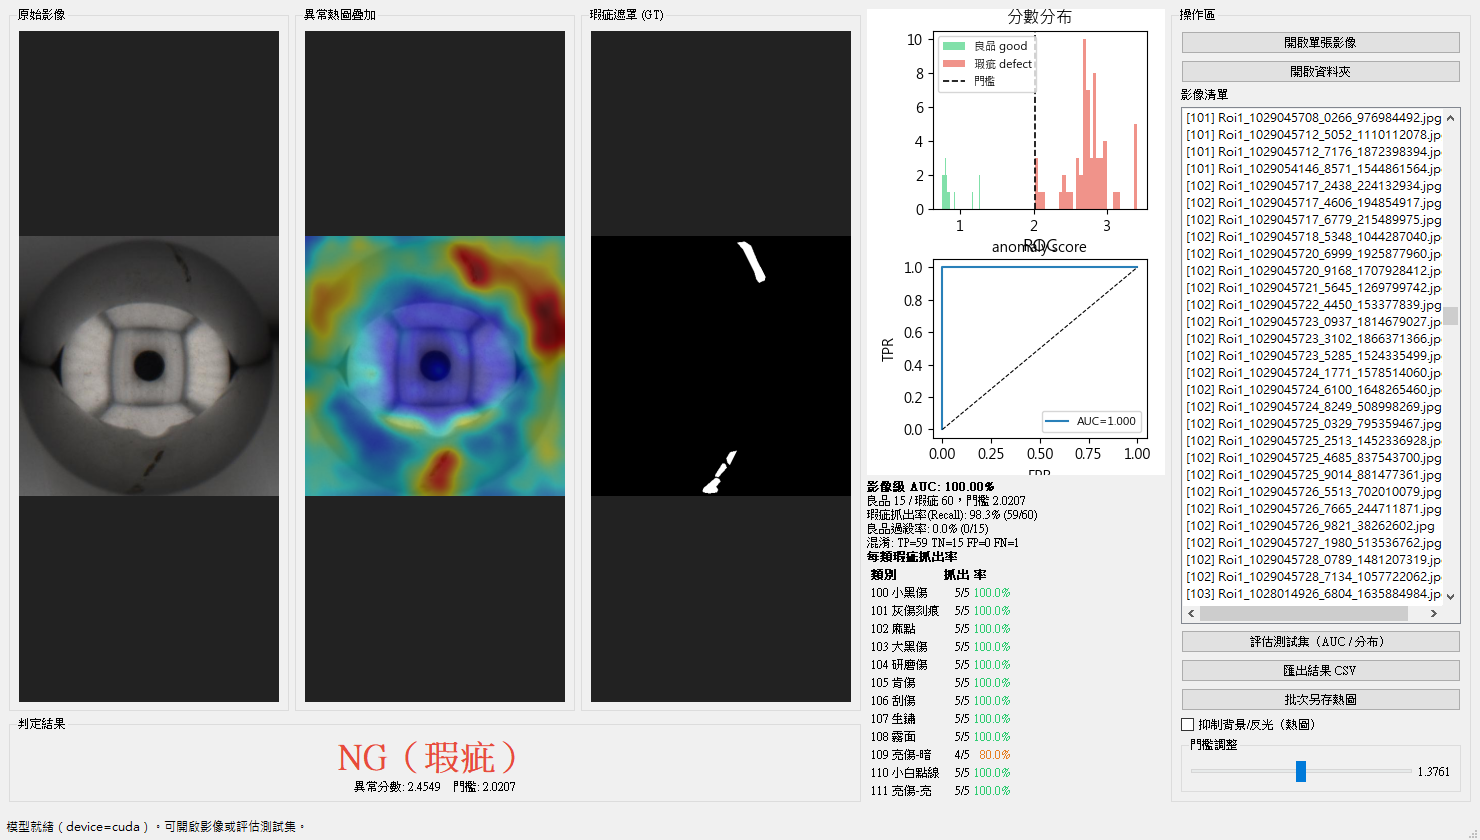
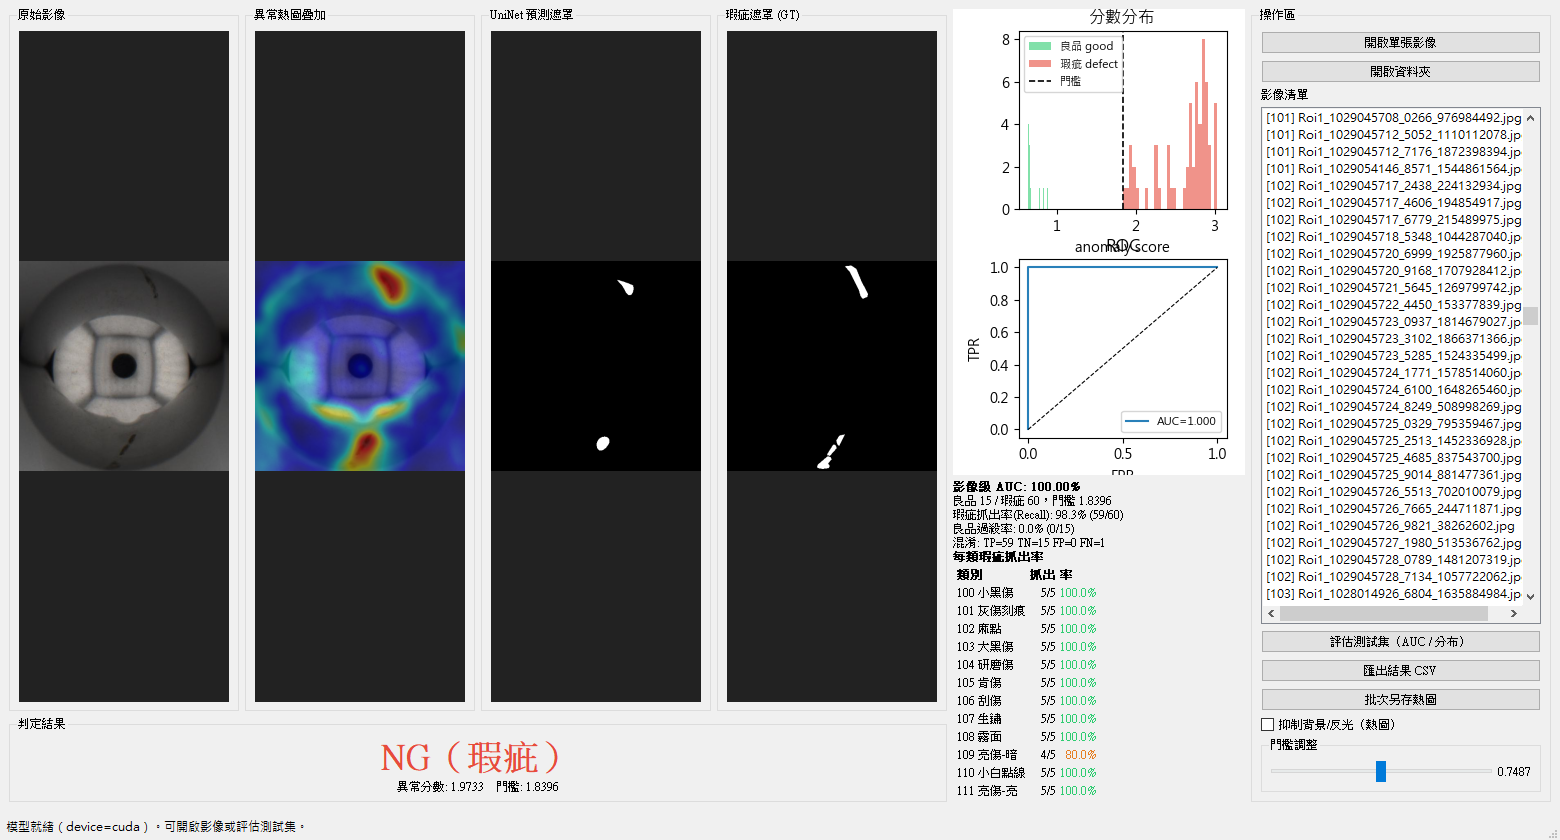
Add UniNet predicted mask panel (pred vs GT comparison)
- visualize_steelball.py / GUI: 4-panel view 原圖+GT | 熱圖 | UniNet 預測遮罩 | GT.
  Predicted mask = background-subtracted residual thresholded at a per-image high
  percentile within the ball ROI (top ~1%), so it marks only the most anomalous
  region instead of flooding the whole (globally-elevated) defect ball.
- make_report_figs.py + RESULTS_REPORT.md/PDF updated with the comparison.

diff --git a/visualize_steelball.py b/visualize_steelball.py
@@ -90,29 +90,37 @@ def ball_roi_mask_gray(gray, shrink=0.92):
     return mask
 
 
-def overlay_panel(img_path, sm, gt_path, vmin, vmax, suppress=False):
-    """sm: 已平滑(且若 suppress 已減背景)的 256x256 異常圖。"""
-    orig = cv2.imread(img_path)
-    orig = cv2.resize(orig, (DISP, DISP))
-    am = cv2.resize(sm, (DISP, DISP))
-    if suppress:
-        am = am * ball_roi_mask_gray(cv2.cvtColor(orig, cv2.COLOR_BGR2GRAY))
-    am = (am - vmin) / (vmax - vmin + 1e-8)
-    am = np.clip(am, 0, 1)
-    heat = cv2.applyColorMap((am * 255).astype(np.uint8), cv2.COLORMAP_JET)
+def overlay_panel(img_path, sm, gt_path, vmin, vmax, bg, pct, suppress=False):
+    """4 聯：原圖+GT | 異常熱圖 | UniNet 預測遮罩 | GT 遮罩。
+    預測遮罩 = 減背景殘差在球內取「每張自身的高百分位(pct)」二值化（只標最異常處）。"""
+    orig = cv2.resize(cv2.imread(img_path), (DISP, DISP))
+    roi = ball_roi_mask_gray(cv2.cvtColor(orig, cv2.COLOR_BGR2GRAY))
+    amD = cv2.resize(sm, (DISP, DISP))
+    bgD = cv2.resize(bg, (DISP, DISP))
+    subD = np.clip(amD - bgD, 0, None) * roi             # 減背景後的殘差（球內）
+    # 異常熱圖（suppress 時顯示殘差，否則原始異常圖）
+    disp = subD if suppress else amD
+    x = np.clip((disp - vmin) / (vmax - vmin + 1e-8), 0, 1)
+    heat = cv2.applyColorMap((x * 255).astype(np.uint8), cv2.COLORMAP_JET)
     overlay = cv2.addWeighted(orig, 0.55, heat, 0.45, 0)
-
+    # UniNet 預測遮罩：球內殘差的自身高百分位門檻（只標最異常的區域）
+    vals = subD[roi > 0.5]
+    t = float(np.percentile(vals, pct)) if vals.size else 0.0
+    pred = ((subD > t) & (roi > 0.5)).astype(np.uint8) * 255
+    pred_vis = cv2.cvtColor(pred, cv2.COLOR_GRAY2BGR)
+    # GT
+    o2 = orig.copy()
     if gt_path and os.path.exists(gt_path):
         gt = cv2.resize(cv2.imread(gt_path, 0), (DISP, DISP))
         gt_vis = cv2.cvtColor(gt, cv2.COLOR_GRAY2BGR)
         cnts, _ = cv2.findContours((gt > 127).astype(np.uint8), cv2.RETR_EXTERNAL, cv2.CHAIN_APPROX_SIMPLE)
-        cv2.drawContours(orig, cnts, -1, (0, 255, 0), 2)      # GT outline on original (green)
+        cv2.drawContours(o2, cnts, -1, (0, 255, 0), 2)
     else:
         gt_vis = np.zeros((DISP, DISP, 3), np.uint8)
 
-    panel = cv2.hconcat([orig, overlay, gt_vis])
-    for i, txt in enumerate(["original (+GT)", "anomaly heatmap", "ground truth"]):
-        cv2.putText(panel, txt, (10 + i * DISP, 22), cv2.FONT_HERSHEY_SIMPLEX, 0.6, (255, 255, 255), 2)
+    panel = cv2.hconcat([o2, overlay, pred_vis, gt_vis])
+    for i, txt in enumerate(["original (+GT)", "anomaly heatmap", "UniNet pred mask", "ground truth"]):
+        cv2.putText(panel, txt, (8 + i * DISP, 22), cv2.FONT_HERSHEY_SIMPLEX, 0.52, (255, 255, 255), 2)
     return panel
 
 
@@ -123,6 +131,8 @@ def main():
     ap.add_argument("--suffix", default="BEST_P_PRO")
     ap.add_argument("--suppress", action="store_true",
                     help="抑制背景/反光：減良品平均圖 + 遮掉鋼珠圓形外")
+    ap.add_argument("--pix_pct", type=float, default=99.0,
+                    help="預測遮罩：每張球內殘差的高百分位門檻（99=只標最異常的 1%）")
     args = ap.parse_args()
 
     device = 'cuda' if torch.cuda.is_available() else 'cpu'
@@ -134,20 +144,14 @@ def main():
     cats = sorted([d for d in os.listdir(os.path.join(DATA, "test"))])
     os.makedirs(OUT, exist_ok=True)
 
-    # 抑制模式：先用良品 train/good 算平均異常圖當背景基準
-    bg_map = None
-    if args.suppress:
-        goods = sorted(glob.glob(os.path.join(DATA, "train", "good", "*.jpg")))
-        acc = None
-        for g in goods:
-            am, _ = anomaly_map_for(model, c, Image.open(g).convert("RGB"), device)
-            sm = gaussian_filter(am, sigma=4)
-            acc = sm if acc is None else acc + sm
-        bg_map = acc / max(len(goods), 1)
-        print(f"suppress on: bg_map built from {len(goods)} good images")
+    # 良品 train/good：算背景基準(bg_map，供減背景殘差/抑制顯示用)
+    goods = sorted(glob.glob(os.path.join(DATA, "train", "good", "*.jpg")))
+    bg_map = np.mean([gaussian_filter(anomaly_map_for(model, c, Image.open(g).convert("RGB"), device)[0], 4)
+                      for g in goods], axis=0)
+    print(f"bg_map built from {len(goods)} good images")
 
-    # ---- pass 1: compute all anomaly maps (smoothed, suppressed), collect GLOBAL scale ----
-    items = []          # (cat, img_path, gt_path, sm, score)
+    # ---- pass 1: 算所有測試異常圖 + 全域色階 ----
+    items = []          # (cat, img_path, gt_path, sm_raw, score)
     pooled = []
     for cat in cats:
         imgs = sorted(glob.glob(os.path.join(DATA, "test", cat, "*.jpg")))
@@ -156,13 +160,11 @@ def main():
             stem = os.path.splitext(os.path.basename(ip))[0]
             amap, score = anomaly_map_for(model, c, Image.open(ip).convert("RGB"), device)
             sm = gaussian_filter(amap, sigma=4)
-            if args.suppress and bg_map is not None:
-                sm = np.clip(sm - bg_map, 0, None)
             gt = None if cat == "good" else os.path.join(DATA, "ground_truth", cat, stem + ".png")
             items.append((cat, ip, gt, sm, score))
-            pooled.append(sm.ravel())
+            disp = np.clip(sm - bg_map, 0, None) if args.suppress else sm
+            pooled.append(disp.ravel())
     pooled = np.concatenate(pooled)
-    # shared scale: good imgs stay cool, defect hot-spots go red (robust percentiles)
     vmin, vmax = float(np.percentile(pooled, 50)), float(np.percentile(pooled, 99.5))
 
     # ---- pass 2: render with the shared scale ----
@@ -171,7 +173,7 @@ def main():
         out_dir = os.path.join(OUT, cat)
         os.makedirs(out_dir, exist_ok=True)
         stem = os.path.splitext(os.path.basename(ip))[0]
-        panel = overlay_panel(ip, sm, gt, vmin, vmax, suppress=args.suppress)
+        panel = overlay_panel(ip, sm, gt, vmin, vmax, bg_map, args.pix_pct, suppress=args.suppress)
         cv2.imwrite(os.path.join(out_dir, f"{stem}_score{score:.3f}.png"), panel)
         per_cat_cnt[cat] = per_cat_cnt.get(cat, 0) + 1
     for cat, cnt in sorted(per_cat_cnt.items()):

diff --git a/uninet_gui.py b/uninet_gui.py
@@ -178,6 +178,21 @@ class UniNetADModel:
         disp = (disp - mn) / (mx - mn + 1e-8) * 255.0       # min-max 正規化到 0–255
         return score, disp.astype(np.float32)
 
+    @torch.no_grad()
+    def predicted_mask(self, pil_image, pct=99.0):
+        """UniNet 預測遮罩：減背景殘差在球內取自身高百分位二值化（uint8 0/255）。"""
+        ow, oh = pil_image.size
+        _, amap = self._infer(pil_image)
+        sm = gaussian_filter(amap, sigma=4)
+        if self.bg_map is not None:
+            sm = np.clip(sm - self.bg_map, 0, None)
+        sub = cv2.resize(sm, (ow, oh))
+        roi = ball_roi_mask(pil_image)
+        sub = sub * roi
+        vals = sub[roi > 0.5]
+        t = float(np.percentile(vals, pct)) if vals.size else 0.0
+        return (((sub > t) & (roi > 0.5)).astype(np.uint8) * 255)
+
     # --- 用良品集算分數 -> 預設門檻 + 平均異常圖(背景基準) --------------- #
     @torch.no_grad()
     def compute_train_scores(self, good_dir, progress=None):
@@ -318,12 +333,12 @@ class MainWindow(QtWidgets.QMainWindow):
         disp = QtWidgets.QVBoxLayout()
         root.addLayout(disp, 2)
         img_row = QtWidgets.QHBoxLayout()
-        self.lbl_orig = self._image_label("原始影像")
-        self.lbl_heat = self._image_label("異常熱圖疊加")
-        self.lbl_mask = self._image_label("瑕疵遮罩 (GT)")
-        img_row.addWidget(self.lbl_orig[0])
-        img_row.addWidget(self.lbl_heat[0])
-        img_row.addWidget(self.lbl_mask[0])
+        self.lbl_orig = self._image_label("原始影像", 210)
+        self.lbl_heat = self._image_label("異常熱圖疊加", 210)
+        self.lbl_pred = self._image_label("UniNet 預測遮罩", 210)
+        self.lbl_mask = self._image_label("瑕疵遮罩 (GT)", 210)
+        for box in (self.lbl_orig, self.lbl_heat, self.lbl_pred, self.lbl_mask):
+            img_row.addWidget(box[0])
         disp.addLayout(img_row, 1)
 
         verdict_box = QtWidgets.QGroupBox("判定結果")
@@ -518,8 +533,13 @@ class MainWindow(QtWidgets.QMainWindow):
         self.cur_score = score
         self.cur_disp_map = disp
         self._show_image(pil, disp)
+        self._show_pred(pil)
         self._show_mask(path)
         self._update_verdict(score)
+
+    def _show_pred(self, pil):
+        pm = self.model.predicted_mask(pil)               # uint8 0/255
+        self.lbl_pred[1].setPixmap(self._np_to_pix(np.stack([pm] * 3, -1), self.lbl_pred[1]))
 
     def _show_mask(self, img_path):
         gt = self._gt_path_for(img_path)

diff --git a/make_report_figs.py b/make_report_figs.py
@@ -53,33 +53,37 @@ print("score range  good[%.2f,%.2f]  defect[%.2f,%.2f]" % (gs.min(), gs.max(), d
 def triptych(ip, gt, suppress):
     """回傳 (原圖+GT, 熱圖疊加, GT遮罩) 三張 RGB（供 matplotlib 顯示）。"""
     raw = smap(ip)[0]
-    sm = np.clip(raw - bg, 0, None) if suppress else raw
     o = cv2.resize(cv2.imread(ip), (DISP, DISP))
-    smD = cv2.resize(sm, (DISP, DISP))
-    if suppress:
-        smD = smD * ball_roi_mask_gray(cv2.cvtColor(o, cv2.COLOR_BGR2GRAY))
-    vmin, vmax = float(np.percentile(sm, 50)), float(np.percentile(sm, 99.5))
-    x = np.clip((smD - vmin) / (vmax - vmin + 1e-8), 0, 1)
+    roi = ball_roi_mask_gray(cv2.cvtColor(o, cv2.COLOR_BGR2GRAY))
+    amD = cv2.resize(raw, (DISP, DISP)); bgD = cv2.resize(bg, (DISP, DISP))
+    subD = np.clip(amD - bgD, 0, None) * roi
+    disp = subD if suppress else amD
+    vmin, vmax = float(np.percentile(disp, 50)), float(np.percentile(disp, 99.5))
+    x = np.clip((disp - vmin) / (vmax - vmin + 1e-8), 0, 1)
     heat = cv2.applyColorMap((x * 255).astype(np.uint8), cv2.COLORMAP_JET)
     ov = cv2.addWeighted(o, 0.55, heat, 0.45, 0)
+    # UniNet 預測遮罩：球內殘差自身高百分位（只標最異常處）
+    vals = subD[roi > 0.5]; t = float(np.percentile(vals, 99.0)) if vals.size else 0.0
+    pred = ((subD > t) & (roi > 0.5)).astype(np.uint8) * 255
     g = cv2.resize(cv2.imread(gt, 0), (DISP, DISP)) if gt and os.path.exists(gt) else np.zeros((DISP, DISP), np.uint8)
     o2 = o.copy()
     cnts, _ = cv2.findContours((g > 127).astype(np.uint8), cv2.RETR_EXTERNAL, cv2.CHAIN_APPROX_SIMPLE)
     cv2.drawContours(o2, cnts, -1, (0, 255, 0), 2)
     rgb = lambda im: cv2.cvtColor(im, cv2.COLOR_BGR2RGB)
-    return rgb(o2), rgb(ov), cv2.cvtColor(g, cv2.COLOR_GRAY2RGB)
+    g2 = cv2.cvtColor(g, cv2.COLOR_GRAY2RGB)
+    return rgb(o2), rgb(ov), cv2.cvtColor(pred, cv2.COLOR_GRAY2RGB), g2
 
 
-COLS = ["原圖 (+GT 綠框)", "異常熱圖疊加", "GT 遮罩"]
+COLS = ["原圖 (+GT 綠框)", "異常熱圖疊加", "UniNet 預測遮罩", "GT 遮罩"]
 
 
 def grid_figure(rowspecs, row_labels, out_png):
-    nr = len(rowspecs)
-    fig, axes = plt.subplots(nr, 3, figsize=(9, 3 * nr + 0.3))
+    nr = len(rowspecs); nc = len(COLS)
+    fig, axes = plt.subplots(nr, nc, figsize=(3 * nc, 3 * nr + 0.3))
     if nr == 1:
         axes = axes[None, :]
     for r, parts in enumerate(rowspecs):
-        for col in range(3):
+        for col in range(nc):
             axes[r, col].imshow(parts[col]); axes[r, col].axis("off")
             if r == 0:
                 axes[r, col].set_title(COLS[col], fontsize=12)

diff --git a/RESULTS_REPORT.md b/RESULTS_REPORT.md
@@ -36,9 +36,12 @@
 
 ![異常分數分布](report/figs/score_distribution.png)
 
-### 2.2 瑕疵定位（異常熱圖）
+### 2.2 瑕疵定位（熱圖 + 預測遮罩 vs GT）
 
-熱圖顯示模型認為「異常」的位置;綠框為 Ground-Truth 標註。可見模型能對應到實際瑕疵位置:
+下圖每列為一種瑕疵,由左至右:**原圖(綠框=GT) | 異常熱圖 | UniNet 預測遮罩 | GT 遮罩**。
+其中 **GT 遮罩來自 LabelMe JSON 人工標註**(非模型輸出);**UniNet 預測遮罩**則是模型異常圖取「球內最異常的 ~1% 區域」二值化,可與 GT 直接比對。
+
+對**明顯瑕疵**(如大黑傷)預測位置與 GT 吻合;對**極小瑕疵**(如生鏽小點)較難精準定位(對應 pixel AUROC ~83、且受反光環干擾)。
 
 ![熱圖範例](report/figs/heatmap_examples.png)
 